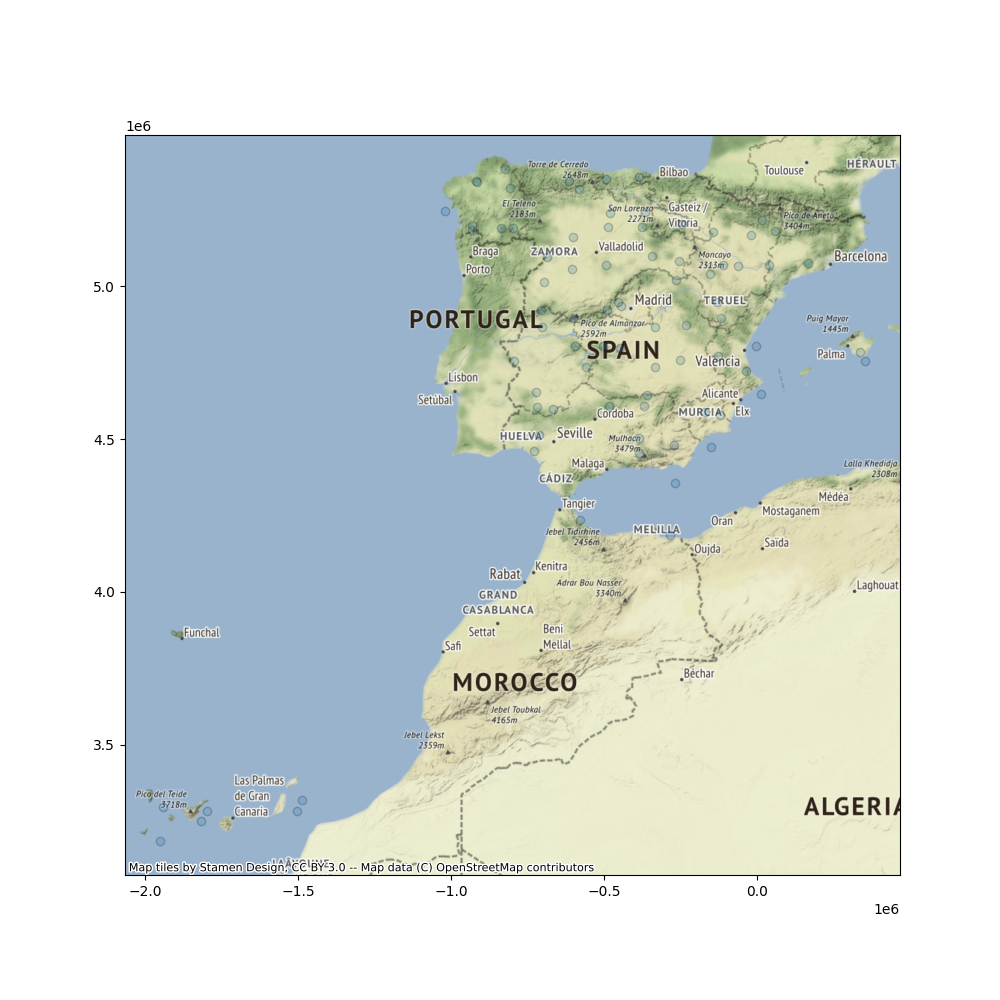
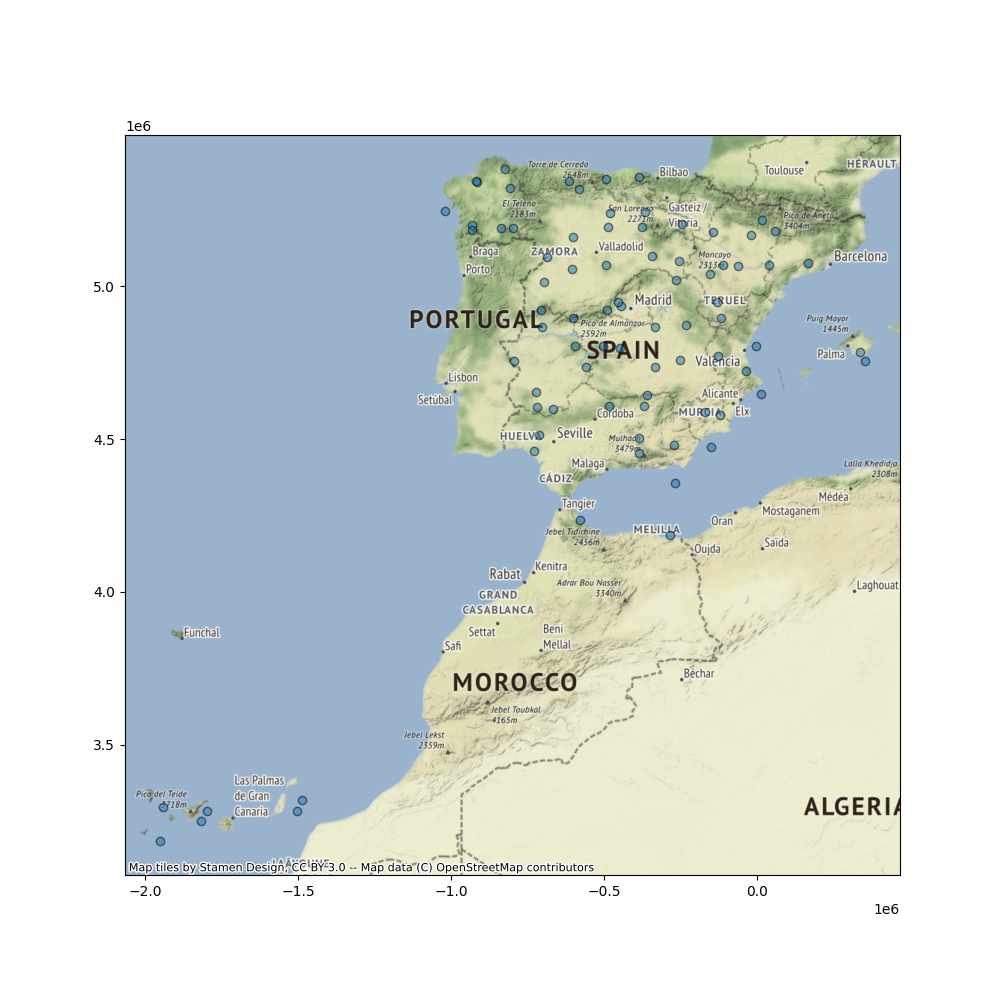
comentarios y edicion

diff --git a/src/templates/home.html b/src/templates/home.html
@@ -134,8 +134,8 @@ function disp_message(arr,tipo,consulta) {
         <h4>Cluster</h4>
     </div>
 
-<!--    <div id="mapid"></div>
-<button type="button" onclick="consulta_estaciones()">load</button>-->
+    <div id="mapid"></div>
+    <button type="button" onclick="consulta_estaciones()">load</button>
 
 </div>
 

diff --git a/main.py b/main.py
@@ -90,8 +90,8 @@ def main():
 
     if args.get_data_esios:
 #        c_esios.c_esios()
-        t_esios.lee_esios_carga_influx(551) # <- lee eolica generada en timpo real
-        t_esios.lee_esios_carga_influx(1295) # <- lee solar generada en timpo real
+        t_esios.lee_esios_carga_influx(551) # <- lee eolica generada en tiempo real
+        t_esios.lee_esios_carga_influx(1295) # <- lee solar generada en tiempo real
 
 
     if args.get_data_aemet:

diff --git a/src/get_data/analisis_ree.py b/src/get_data/analisis_ree.py
@@ -1,4 +1,4 @@
-# Archivo para leer de Red Eléctrica de la API que no necesiota clave. 
+# Archivo para leer de Red Eléctrica de la API que no necesita clave. 
 # La función widget_caract sirve para consultar todos lo endpoints y 
 # caracaterizarlos según el parámetro de tiempo (hora, día o mes) de la consulta.
 from src.connect_db import client_mongo

diff --git a/src/get_data/tool_esios.py b/src/get_data/tool_esios.py
@@ -1,5 +1,6 @@
 # Archivo que contiene la función que lee los indicadores de REE Esios y
 # escribe en mongo DB los mismo para su gestión.
+
 import src.connect_db
 import requests
 from src.connect_db import client_influx
